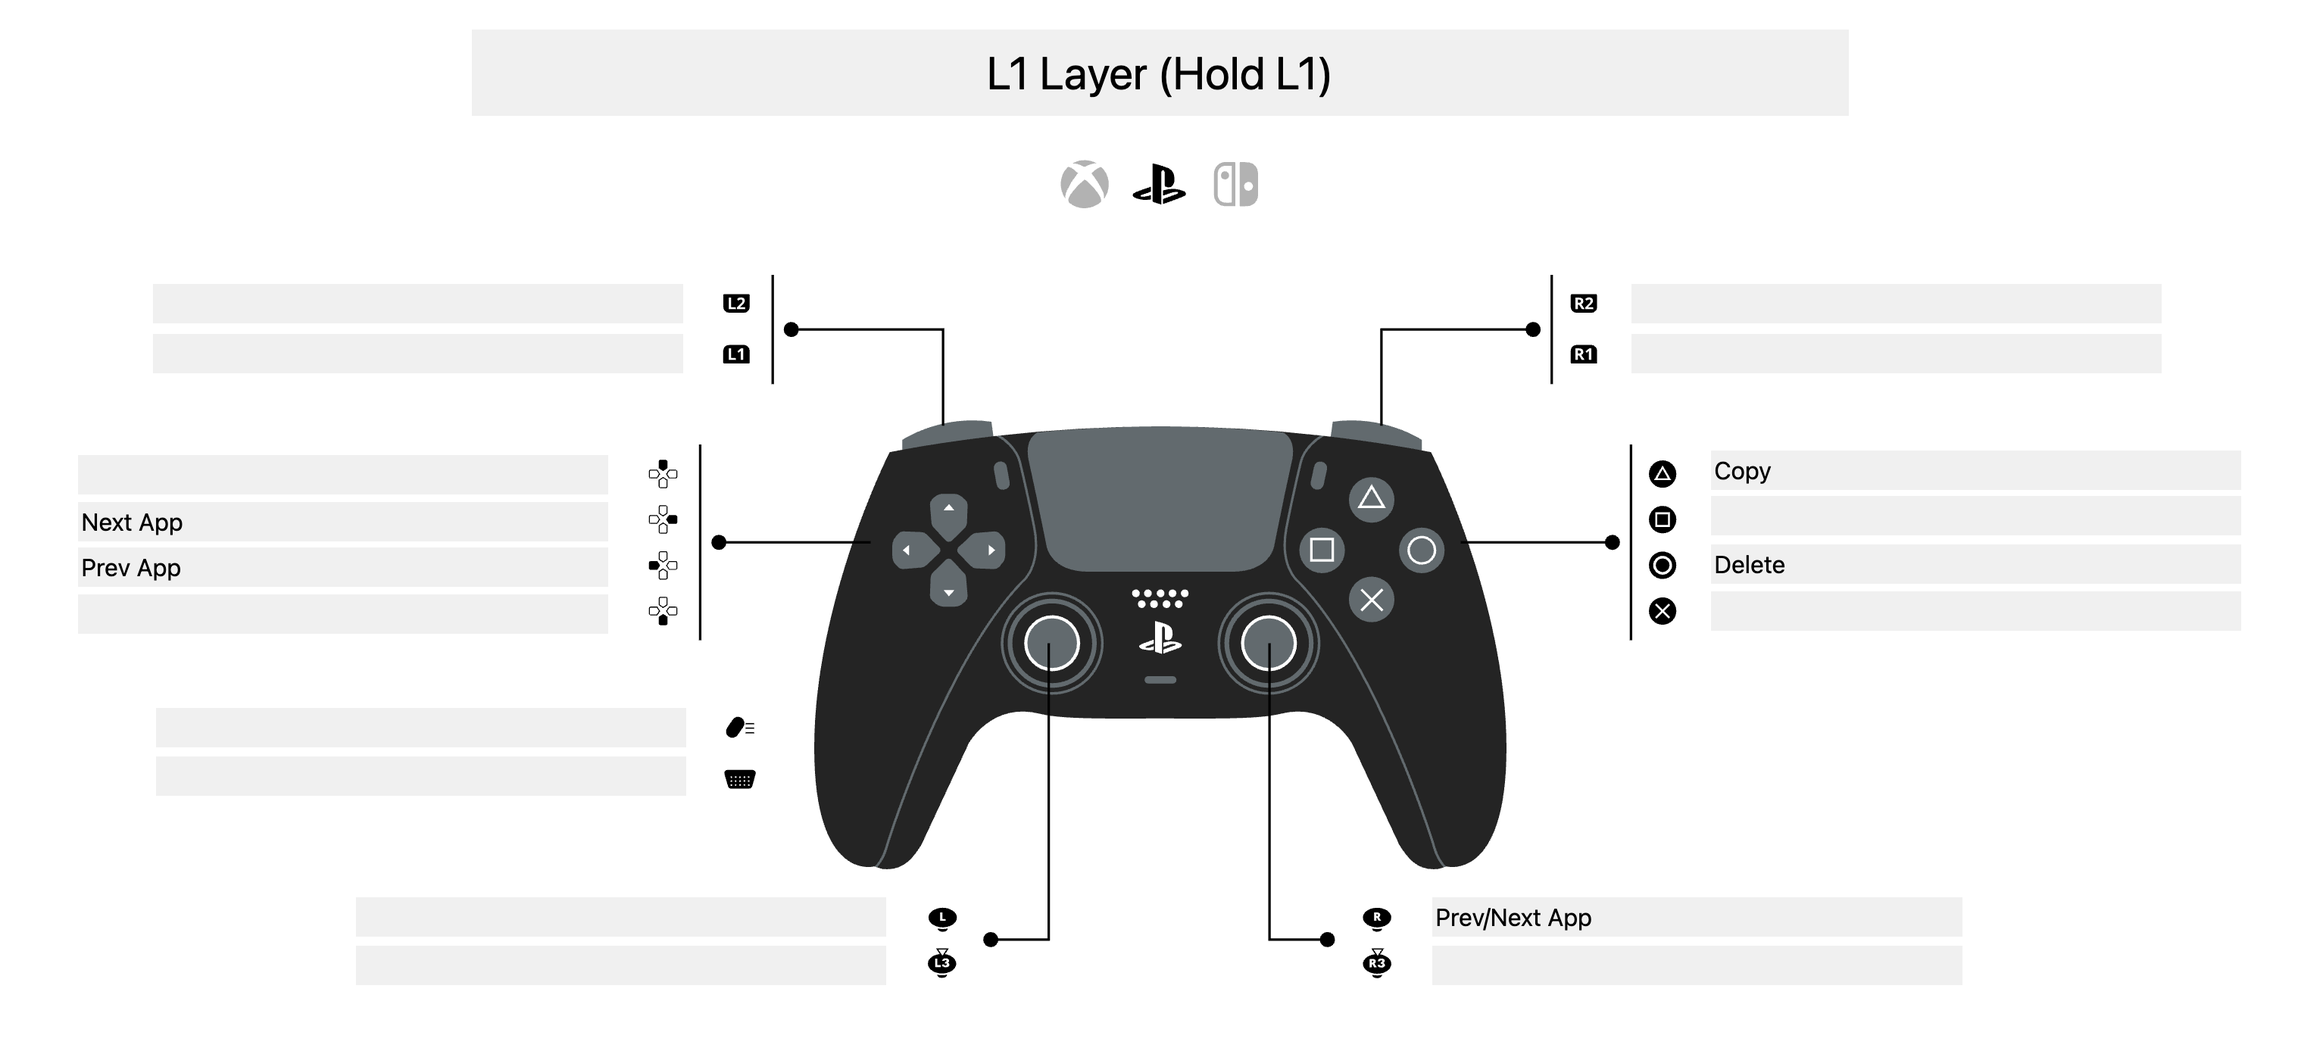
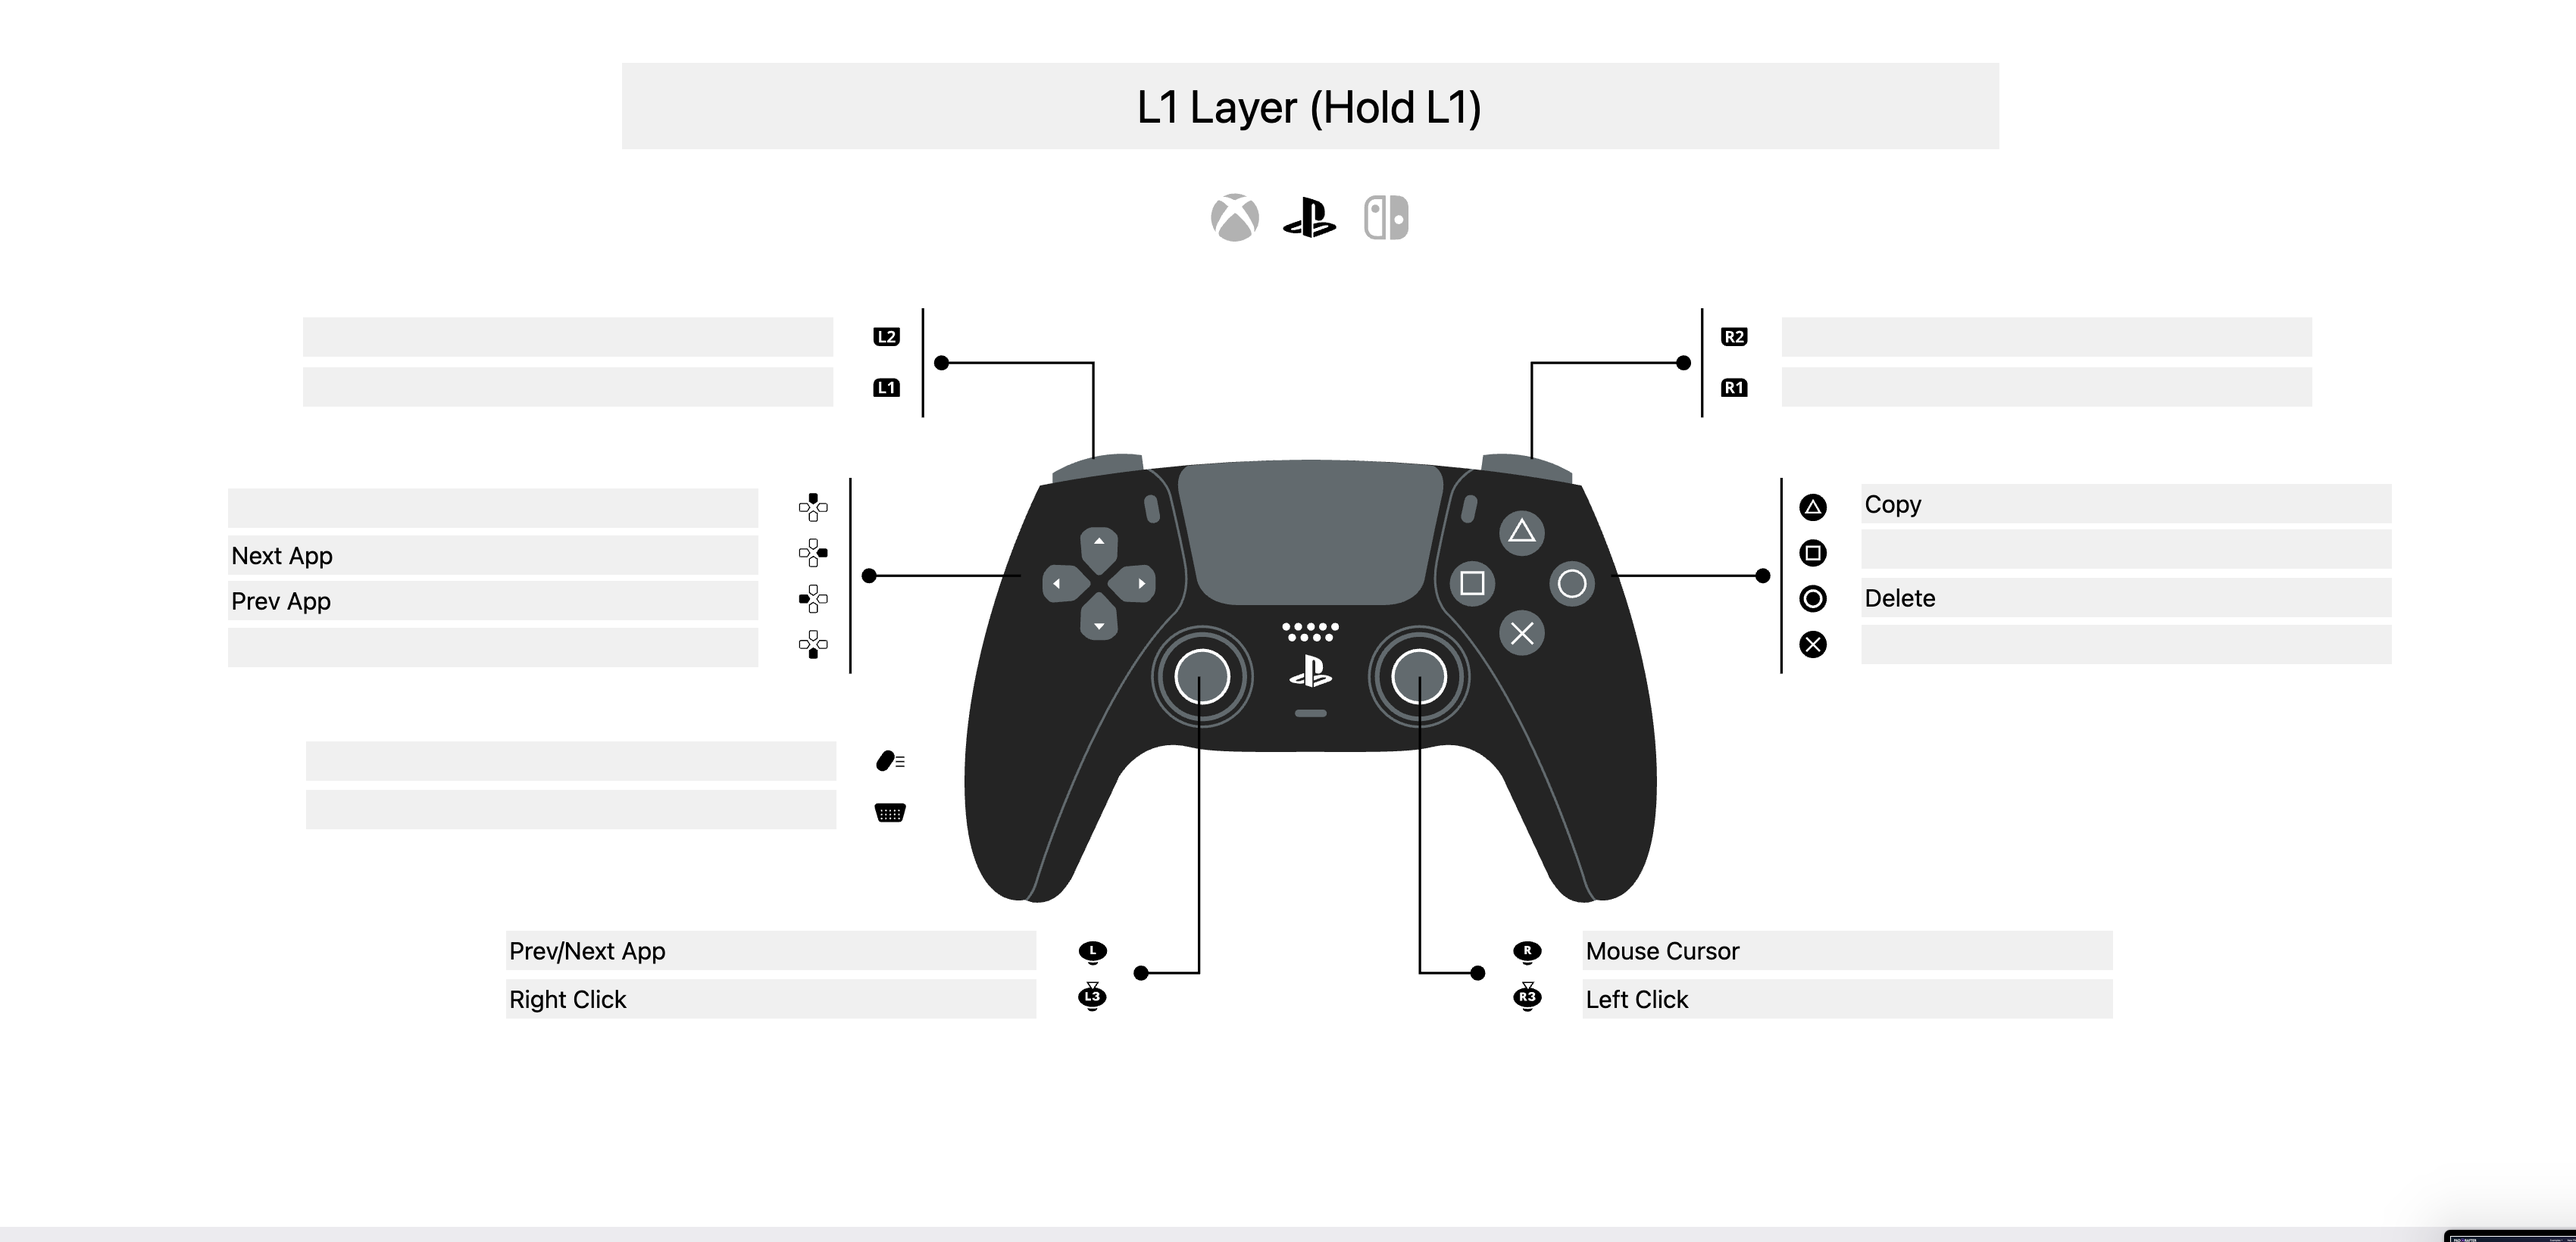
Update README layout images and PadCrafter URL
Refresh cropped screenshots to reflect current mappings (L3/R3
mouse clicks, Voice-to-text label, L1+right stick mouse cursor).
Fix feature list: L1+left stick is app switch, add L1+right stick
mouse cursor line. Replace PadCrafter link with full parameterized URL.

diff --git a/README.md b/README.md
@@ -11,7 +11,8 @@ A lightweight macOS menu bar app that maps gamepad inputs to keyboard shortcuts 
 - **Sticky modifiers** — L1+D-pad app switching holds Cmd across multiple presses, releases on L1 up
 - **Left stick → arrow keys** — with hysteresis thresholds and hold-to-repeat
 - **Right stick → scroll** — continuous smooth scrolling in any direction
-- **L1+right stick → app switch** — flick right for next app, left for previous
+- **L1+left stick → app switch** — flick right for next app, left for previous
+- **L1+right stick → mouse cursor** — move the mouse pointer with the right stick
 - **Hold-to-repeat** — configurable per-button repeat delay and interval
 - **Trigger modes** — fire on press, release, or both (e.g. hold-to-talk for voice input)
 - **HUD overlay** — learning mode shows action labels on every button press
@@ -21,7 +22,7 @@ A lightweight macOS menu bar app that maps gamepad inputs to keyboard shortcuts 
 
 ## Button Mapping
 
-> [View interactive layout on PadCrafter](https://www.padcrafter.com/?templates=VibePad(Default%2CL1+Layer+(Hold+L1)))
+> [View interactive layout on PadCrafter](https://www.padcrafter.com/index.php?templates=VibePad%7CL1%20Layer%20%28Hold%20L1%29&leftTrigger=Voice-to-text&rightTrigger=Submit&leftBumper=Layer%20Modifier%20%28L1%29&rightBumper=Switch%20Mode&aButton=Accept&bButton=Cancel%7CDelete&xButton=Interrupt&yButton=Paste%7CCopy&dpadUp=History%20Up&dpadDown=History%20Down&dpadLeft=Prev%20Tab%7CPrev%20App&dpadRight=Next%20Tab%7CNext%20App&leftStickClick=Right%20Click%7CRight%20Click&rightStickClick=Left%20Click%7CLeft%20Click&startButton=Slash%20Command&backButton=Clear%20Chat&leftStick=Arrow%20Keys%7CPrev%2FNext%20App&rightStick=Scroll%7CMouse%20Cursor)
 
 ### Default Layer
 
